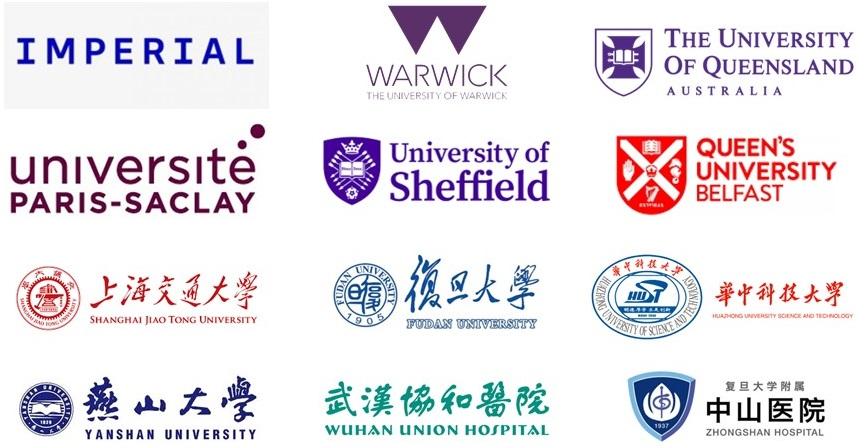
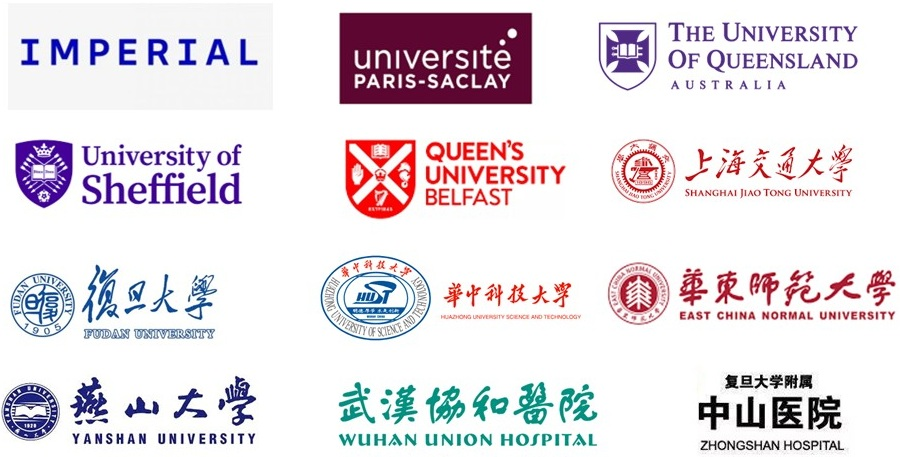
update funders

diff --git a/_pages/about.md b/_pages/about.md
@@ -156,7 +156,7 @@ Commission (Horizon 2020 research and innovation programme under the Marie Skło
 </div> -->
 
 <div style="display: flex; justify-content: center;">
-  <img src="/images/funders/funders.png" alt="image2" width="700">
+  <img src="/images/funders/funders.jpg" alt="image2" width="700">
 </div>
 
 Selected collaborators
